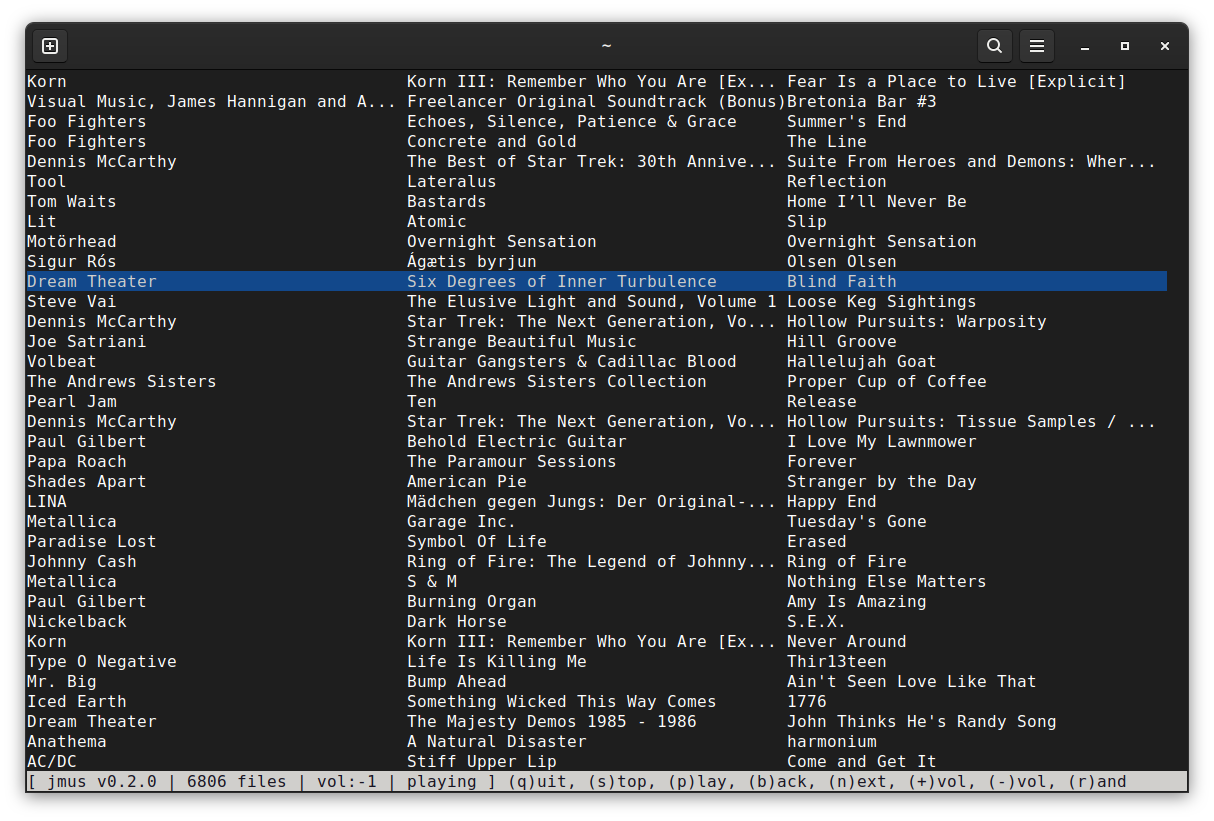
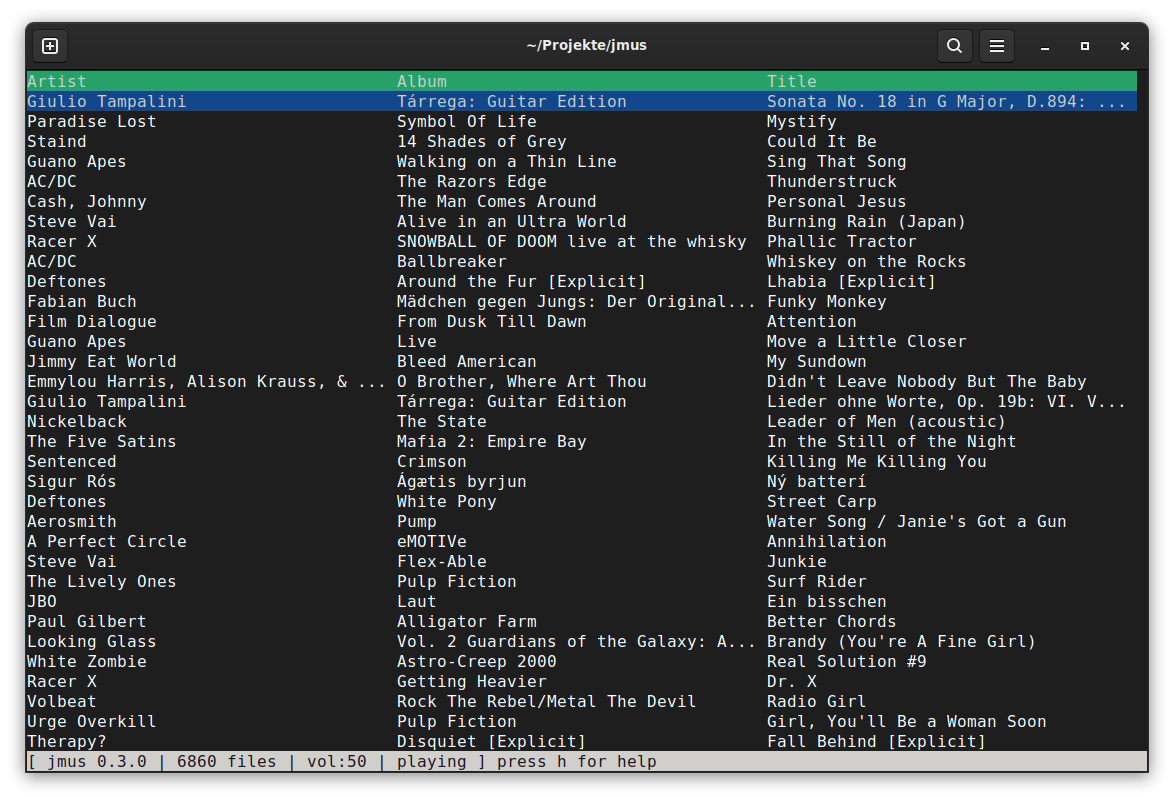
Show column header

Changed region(s): [[0.0, 0.0312, 0.9813, 0.9675], [0.8893, 0.6242, 0.9199, 0.6554]]

diff --git a/src/main/java/com/github/sweintritt/jmus/Application.java b/src/main/java/com/github/sweintritt/jmus/Application.java
@@ -198,7 +198,10 @@ final class Application {
             clearScreen();
 
             switch (mode) {
-                case Mode.ENTRIES -> drawEntries(columns, rows);
+                case Mode.ENTRIES -> {
+                    drawColumnHeaders(columns);
+                    drawEntries(columns, rows - 1);
+                }
                 case Mode.HELP -> drawHelp(rows);
                 default -> drawEmpty(rows);
             }
@@ -243,6 +246,16 @@ final class Application {
         }
     }
 
+    void drawColumnHeaders(final int columns) {
+        final int columnLength = Math.max(0, columns / 3);
+        var header = fitToWidth("Artist", columnLength) 
+            + fitToWidth("Album", columnLength)
+            + fitToWidth("Title", columnLength);
+        new AttributedString(header,
+            AttributedStyle.DEFAULT.foreground(AttributedStyle.WHITE)
+                    .background(AttributedStyle.GREEN)).println(terminal);
+    }
+
     void drawEntries(final int columns, final int rows) {
         if (entries.isEmpty()) {
             drawEmpty(rows);
@@ -255,8 +268,8 @@ final class Application {
             }
 
             // Ensure that the start index is in bounds of the entry list
-            startIndex = Math.clamp(startIndex, 0, entries.size());
             final int columnLength = Math.max(0, columns / 3);
+            startIndex = Math.clamp(startIndex, 0, entries.size());
             log.debug("rows: {}, half: {}, index: {}, startIndex: {}, entries: {}", rows, half, index,
                     startIndex, entries.size());
             for (int i = startIndex; i < startIndex + rows - 1; ++i) {

diff --git a/src/test/java/com/github/sweintritt/jmus/ApplicationTest.java b/src/test/java/com/github/sweintritt/jmus/ApplicationTest.java
@@ -164,6 +164,7 @@ class ApplicationTest {
     @Test
     void drawEntries() {
         var expected = """
+                Artist                    Album                     Title\s\s\s\s\s\s\s\s\s\s\s\s\s\s\s\s\s\s\s\s\s
                 Artist 1                  Album 1                   Title 1\s\s\s\s\s\s\s\s\s\s\s\s\s\s\s\s\s\s\s
                 Artist 2                  Album 2                   Title 2\s\s\s\s\s\s\s\s\s\s\s\s\s\s\s\s\s\s\s
                 Artist 3                  Album 3                   Title 3\s\s\s\s\s\s\s\s\s\s\s\s\s\s\s\s\s\s\s
@@ -172,7 +173,6 @@ class ApplicationTest {
                 Artist 6                  Album 6                   Title 6\s\s\s\s\s\s\s\s\s\s\s\s\s\s\s\s\s\s\s
                 Artist 7                  Album 7                   Title 7\s\s\s\s\s\s\s\s\s\s\s\s\s\s\s\s\s\s\s
                 Artist 8                  Album 8                   Title 8\s\s\s\s\s\s\s\s\s\s\s\s\s\s\s\s\s\s\s
-
 
 
 

diff --git a/Readme.md b/Readme.md
@@ -27,12 +27,13 @@ executed by pressing the button in brackets.
 - `b` - Play the previous song
 - `h` - Show help page
 - `n` - Play the next song
-- `p` - Start playing
+- `p` - Start playing or pause if playing
 - `q` - Quit jmus
 - `r` - Switch between sorted or random playing order
-- `s` - Stop playing
 - `+` - Increase the volume
 - `-` - Decrease the columne
+
+![Help screen](doc/screen02.png)
 
 # Build
 
